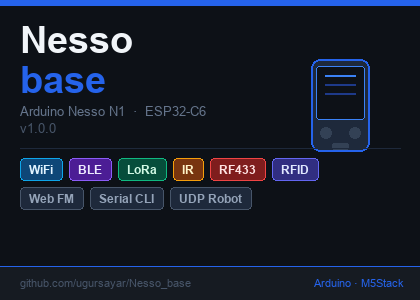
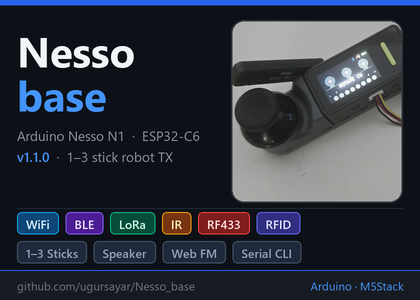
Redesign the M5Burner cover for v1.1.0 with a real device photo
gen_cover.py now renders at 2x and downscales for crisp text, panels
in a cropped shot of the triple-stick setup instead of the vector
device drawing, adds the 1-3 Sticks / Speaker tags, and takes the
version from a VERSION constant. Output moves to assets/cover.png
(the old d:/Arduino output path no longer exists).

diff --git a/gen_cover.py b/gen_cover.py
@@ -1,102 +1,99 @@
+# Generate the M5Burner cover card (assets/cover.png, 420x300).
+# Rendered at 2x and downscaled for crisp text; the photo panel uses a real
+# device shot from assets/. Bump VERSION (and TAGLINE if features change),
+# re-run, and re-upload the cover in M5Burner alongside the release.
+import os
 from PIL import Image, ImageDraw, ImageFont
 
-W, H = 420, 300
+VERSION = "1.1.0"
+TAGLINE = "1–3 stick robot TX"
+PHOTO   = "assets/20260722_140133.jpg"
+PHOTO_CROP = (40, 380, 700, 1080)   # N1 + stick + antenna region of that shot
 
-# Base layer
+ROOT = os.path.dirname(os.path.abspath(__file__))
+W, H = 840, 600                      # 2x canvas -> saved at 420x300
+
 img = Image.new("RGB", (W, H), (13, 17, 23))
 d = ImageDraw.Draw(img)
 
 # Top accent bar
-d.rectangle([0, 0, W, 5], fill=(37, 99, 235))
+d.rectangle([0, 0, W, 10], fill=(37, 99, 235))
 
-# ── Fonts ──
-def try_font(path, size):
-    try:
-        return ImageFont.truetype(path, size)
-    except Exception:
-        return ImageFont.load_default()
+# ── Fonts (Segoe with Arial fallback) ──
+def try_font(names, size):
+    for n in names:
+        try:
+            return ImageFont.truetype(f"C:/Windows/Fonts/{n}", size)
+        except Exception:
+            pass
+    return ImageFont.load_default()
 
-font_big   = try_font("C:/Windows/Fonts/arialbd.ttf", 38)
-font_med   = try_font("C:/Windows/Fonts/arialbd.ttf", 16)
-font_small = try_font("C:/Windows/Fonts/arial.ttf",   13)
-font_tag   = try_font("C:/Windows/Fonts/arialbd.ttf", 12)
-font_tiny  = try_font("C:/Windows/Fonts/arial.ttf",   11)
+font_big  = try_font(["segoeuib.ttf", "arialbd.ttf"], 84)
+font_meta = try_font(["segoeui.ttf",  "arial.ttf"],   27)
+font_ver  = try_font(["seguisb.ttf",  "arialbd.ttf"], 27)
+font_tag  = try_font(["seguisb.ttf",  "arialbd.ttf"], 24)
+font_tiny = try_font(["segoeui.ttf",  "arial.ttf"],   23)
 
-# ── Title ──
-d.text((20, 18),  "Nesso", font=font_big, fill=(241, 245, 249))
-d.text((20, 58),  "base",  font=font_big, fill=(37, 99, 235))
-d.text((20, 104), "Arduino Nesso N1  ·  ESP32-C6", font=font_small, fill=(100, 116, 139))
-d.text((20, 121), "v1.0.0", font=font_small, fill=(71, 85, 105))
+# ── Photo panel (right) ──
+photo = Image.open(os.path.join(ROOT, PHOTO)).crop(PHOTO_CROP)
+PX, PY, PW, PH = 462, 40, 344, 366
+photo = photo.resize((PW, PH), Image.LANCZOS)
+mask = Image.new("L", (PW, PH), 0)
+ImageDraw.Draw(mask).rounded_rectangle([0, 0, PW - 1, PH - 1], radius=26, fill=255)
+img.paste(photo, (PX, PY), mask)
+d.rounded_rectangle([PX, PY, PX + PW - 1, PY + PH - 1], radius=26,
+                    outline=(48, 54, 61), width=3)
 
-# ── Device illustration ──
-cx, cy = 340, 105
-bw, bh = 58, 92
-# Body
-d.rounded_rectangle(
-    [cx - bw//2, cy - bh//2, cx + bw//2, cy + bh//2],
-    radius=9, fill=(30, 41, 59), outline=(37, 99, 235), width=2)
-# Screen bezel
-d.rounded_rectangle(
-    [cx - bw//2 + 5, cy - bh//2 + 7, cx + bw//2 - 5, cy + 14],
-    radius=3, fill=(13, 17, 23), outline=(59, 130, 246), width=1)
-# Screen content lines
-for i in range(3):
-    lx = cx - 15
-    ly = cy - bh//2 + 16 + i * 9
-    shade = (59, 130, 246) if i == 0 else (30, 58, 138)
-    d.line([lx, ly, lx + 30, ly], fill=shade, width=2)
-# Two buttons
-d.ellipse([cx - 20, cy + 22, cx - 9, cy + 33], fill=(51, 65, 85))
-d.ellipse([cx + 9,  cy + 22, cx + 20, cy + 33], fill=(51, 65, 85))
-# USB-C port
-d.rounded_rectangle([cx - 8, cy + bh//2 - 8, cx + 8, cy + bh//2 - 2],
-                    radius=2, fill=(51, 65, 85))
+# ── Title block (left) ──
+d.text((34, 44),  "Nesso", font=font_big, fill=(241, 245, 249))
+d.text((34, 132), "base",  font=font_big, fill=(68, 147, 248))
+d.text((34, 252), "Arduino Nesso N1  ·  ESP32-C6", font=font_meta, fill=(139, 148, 158))
+d.text((34, 294), f"v{VERSION}", font=font_ver, fill=(68, 147, 248))
+vw = int(d.textlength(f"v{VERSION}", font=font_ver))
+d.text((34 + vw + 14, 294), f"·  {TAGLINE}", font=font_meta, fill=(139, 148, 158))
 
 # ── Divider ──
-d.line([20, 148, W - 20, 148], fill=(30, 41, 59), width=1)
+d.line([34, 416, W - 34, 416], fill=(30, 41, 59), width=2)
 
-# ── Feature tags ──
-# (label, bg_rgb, border_rgb, text_rgb)
+# ── Feature tags: (label, bg, border, text) ──
 tags = [
-    ("WiFi",      (14, 71, 120),  (14, 165, 233), (224, 242, 254)),
-    ("BLE",       (76, 29, 149),  (139, 92, 246), (237, 233, 254)),
-    ("LoRa",      (6, 78, 59),    (16, 185, 129), (209, 250, 229)),
-    ("IR",        (120, 53, 15),  (245, 158, 11), (254, 243, 199)),
-    ("RF433",     (127, 29, 29),  (239, 68, 68),  (254, 226, 226)),
-    ("RFID",      (49, 46, 129),  (99, 102, 241), (224, 231, 255)),
+    ("WiFi",  (14, 71, 120),  (14, 165, 233), (224, 242, 254)),
+    ("BLE",   (76, 29, 149),  (139, 92, 246), (237, 233, 254)),
+    ("LoRa",  (6, 78, 59),    (16, 185, 129), (209, 250, 229)),
+    ("IR",    (120, 53, 15),  (245, 158, 11), (254, 243, 199)),
+    ("RF433", (127, 29, 29),  (239, 68, 68),  (254, 226, 226)),
+    ("RFID",  (49, 46, 129),  (99, 102, 241), (224, 231, 255)),
 ]
 misc = [
-    ("Web FM",    (30, 41, 59),   (71, 85, 105),  (148, 163, 184)),
-    ("Serial CLI",(30, 41, 59),   (71, 85, 105),  (148, 163, 184)),
-    ("UDP Robot", (30, 41, 59),   (71, 85, 105),  (148, 163, 184)),
+    ("1–3 Sticks", (30, 41, 59), (71, 85, 105), (148, 163, 184)),
+    ("Speaker",    (30, 41, 59), (71, 85, 105), (148, 163, 184)),
+    ("Web FM",     (30, 41, 59), (71, 85, 105), (148, 163, 184)),
+    ("Serial CLI", (30, 41, 59), (71, 85, 105), (148, 163, 184)),
 ]
 
-TAG_H = 22
-PAD   = 9
+TAG_H, PAD = 44, 18
 
 def draw_tags(row, y):
-    x = 20
+    x = 34
     for label, bg, border, fg in row:
         tw = int(d.textlength(label, font=font_tag))
-        bw2 = tw + PAD * 2
-        d.rounded_rectangle([x, y, x + bw2, y + TAG_H],
-                            radius=4, fill=bg, outline=border, width=1)
-        d.text((x + PAD, y + (TAG_H - 12) // 2), label, font=font_tag, fill=fg)
-        x += bw2 + 7
-    return y + TAG_H + 7
+        d.rounded_rectangle([x, y, x + tw + PAD * 2, y + TAG_H],
+                            radius=9, fill=bg, outline=border, width=2)
+        d.text((x + PAD, y + 8), label, font=font_tag, fill=fg)
+        x += tw + PAD * 2 + 14
+    return y + TAG_H + 14
 
-y = 158
-y = draw_tags(tags, y)
+y = draw_tags(tags, 424)
 draw_tags(misc, y)
 
 # ── Bottom bar ──
-d.rectangle([0, H - 34, W, H], fill=(22, 27, 34))
-d.line([0, H - 34, W, H - 34], fill=(37, 99, 235), width=1)
-d.text((20, H - 23), "github.com/ugursayar/Nesso_base", font=font_tiny, fill=(71, 85, 105))
+d.rectangle([0, H - 60, W, H], fill=(22, 27, 34))
+d.line([0, H - 60, W, H - 60], fill=(37, 99, 235), width=2)
+d.text((34, H - 44), "github.com/ugursayar/Nesso_base", font=font_tiny, fill=(110, 118, 129))
 label_r = "Arduino · M5Stack"
 rw = int(d.textlength(label_r, font=font_tiny))
-d.text((W - rw - 16, H - 23), label_r, font=font_tiny, fill=(37, 99, 235))
+d.text((W - rw - 34, H - 44), label_r, font=font_tiny, fill=(68, 147, 248))
 
-out = "d:/Arduino/Nesso_base/cover.png"
-img.save(out, "PNG")
-print(f"Saved {out}  ({W}x{H}px)")
+out = os.path.join(ROOT, "assets", "cover.png")
+img.resize((420, 300), Image.LANCZOS).save(out, "PNG")
+print(f"Saved {out} (420x300)")
